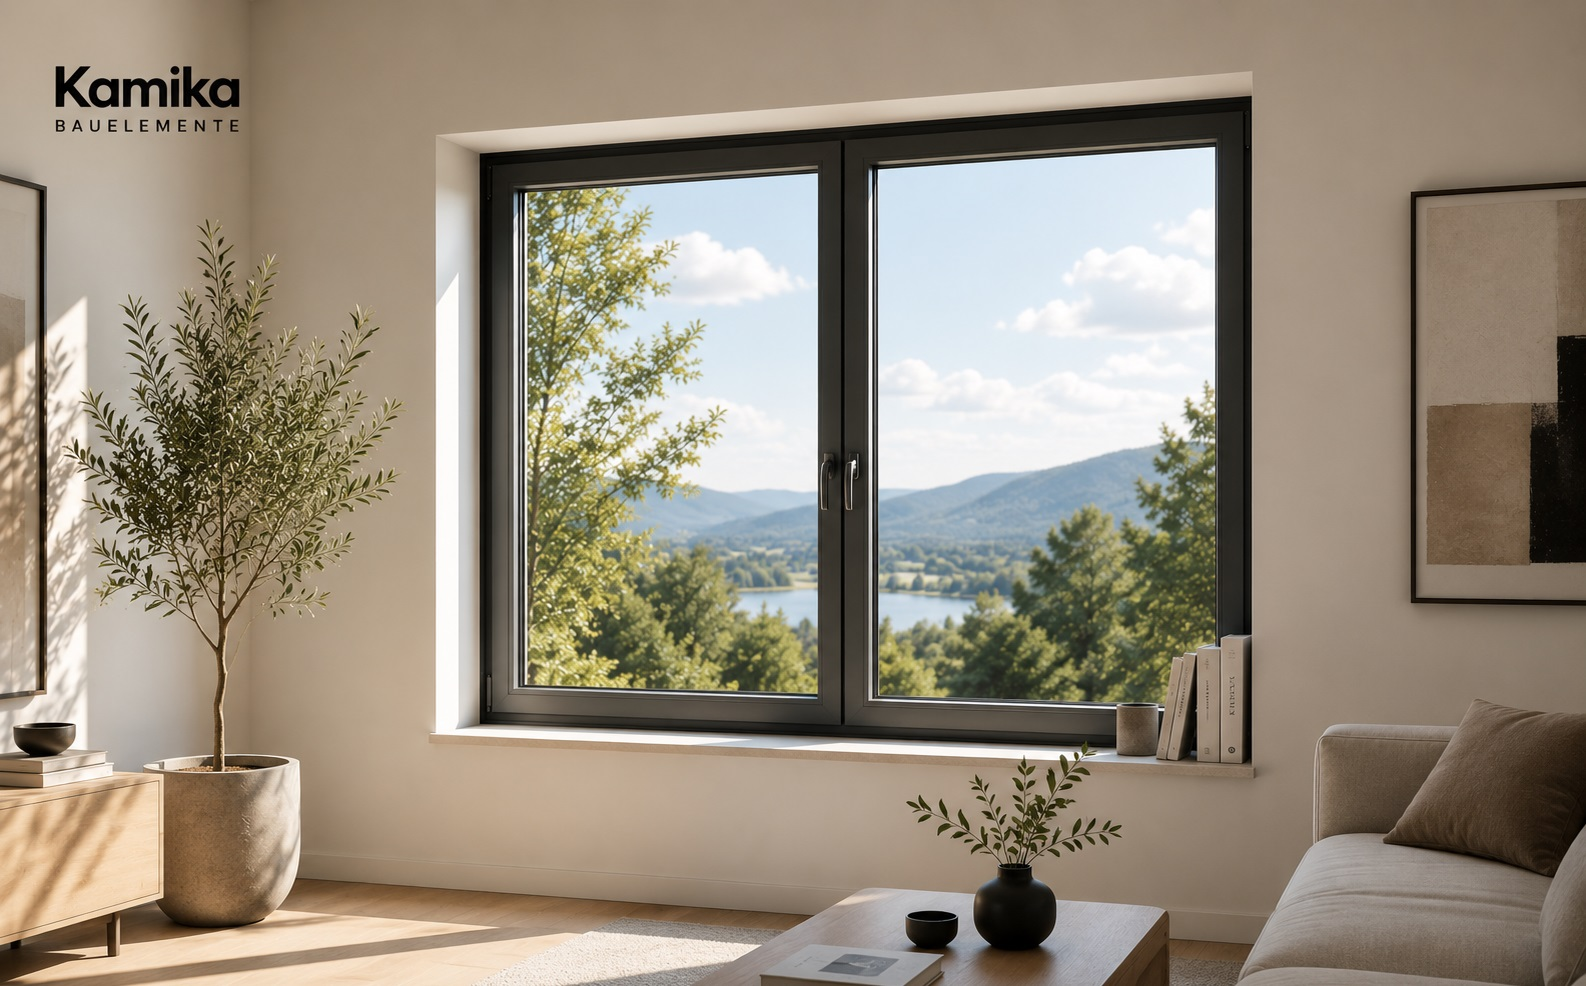
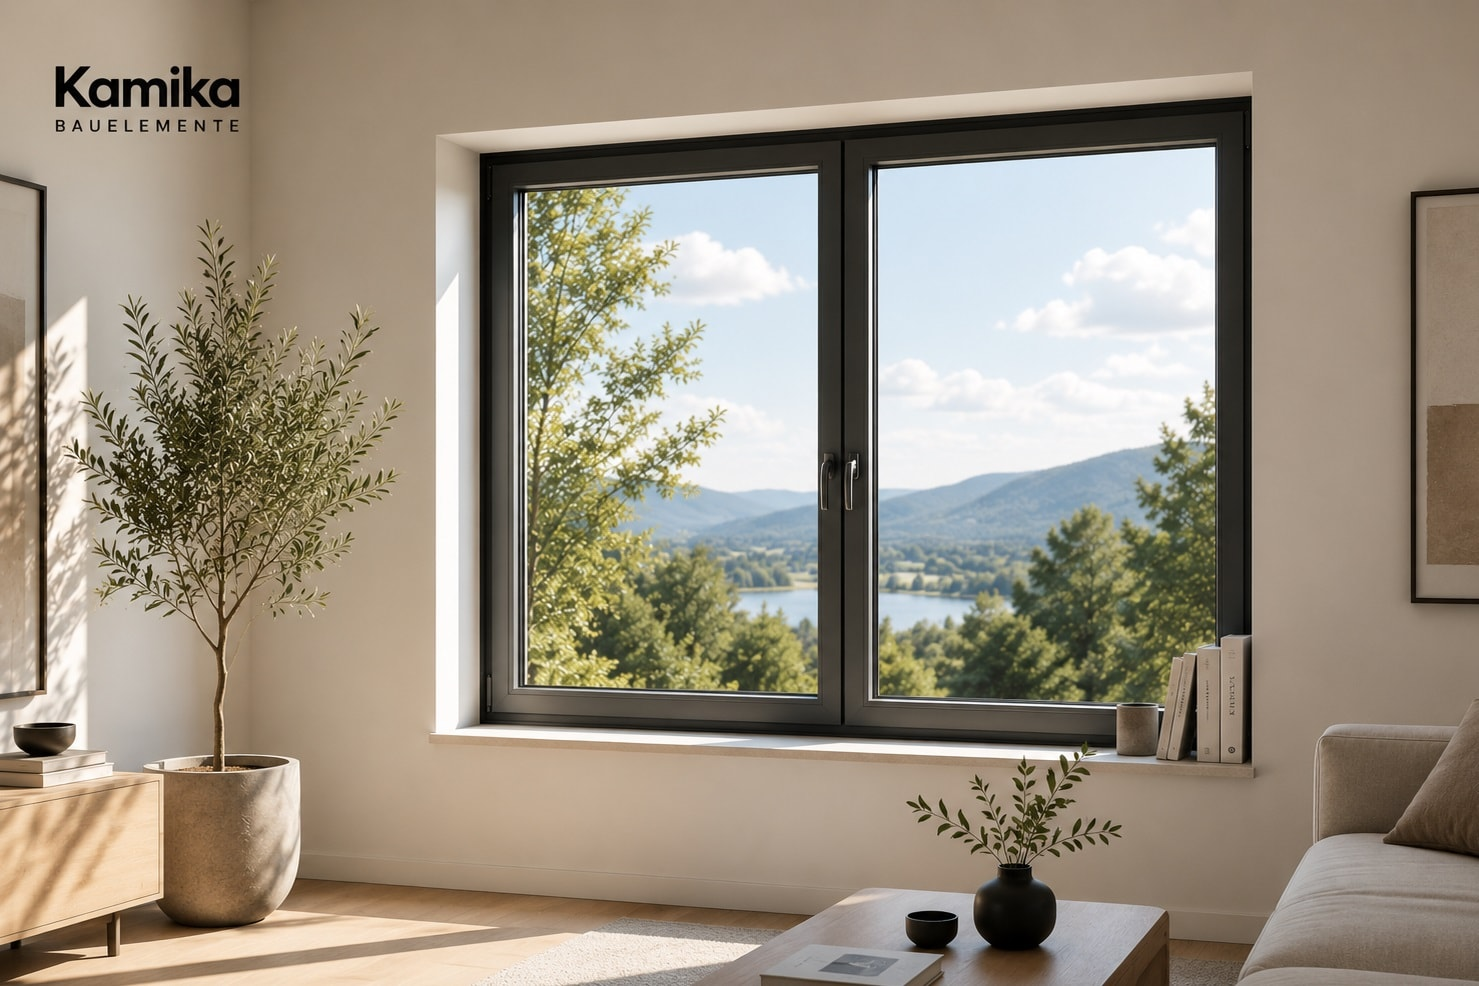
Windows: the owner's photograph, fitted to the frame
The photo came in at 1586×986 (16:10) and the range frames are 3:2, so
`object-cover` would have shaved 3,4% off each side — and the Kamika
wordmark burned into the photo starts at 3,3% from the left, so the
crop would have clipped the K. Cut to 1479×986 from the right instead:
exact 3:2, nothing cropped at any width, wordmark untouched, and the
composition loses only a sliver of the sofa.

The plate script now refuses to overwrite a range that has a real
photograph (`OWNER_PHOTOS`). Running it out of habit would otherwise
have destroyed this file without a word.

diff --git a/CONTENT.md b/CONTENT.md
@@ -25,7 +25,7 @@ npm run assets:placeholders
 | Status | Path                                             | What it must show                                                              | Who   |
 | ------ | ------------------------------------------------ | ------------------------------------------------------------------------------ | ----- |
 | `[~]`  | `public/images/home/hero.jpg`                    | One strong installation photo — a finished window or door in a real house. Landscape, 2400×1500 or larger. This is the first thing a visitor sees. | Owner |
-| `[~]`  | `public/images/categories/{slug}-hero.jpg`        | One photo per category (8 files). **`entrance-doors` is done**: it is composed from three real doors cut out of the catalogues. The other seven are brand plates — the window-frame motif in the logo colours with the range name — drawn by `node scripts/build-category-heroes.mjs`. They are deliberately graphics, not fake photography, and they can stay published until real photos arrive. 1600×1000. | Owner |
+| `[~]`  | `public/images/categories/{slug}-hero.jpg`        | One photo per category (8 files). **`entrance-doors` and `windows` are done** — the owner's own photographs. The other six are brand plates — the window-frame motif in the logo colours with the range name — drawn by `node scripts/build-category-heroes.mjs`, which now refuses to overwrite a range that has a real photo (`OWNER_PHOTOS`). They are deliberately graphics, not fake photography, and can stay published until real photos arrive. **3:2** (1500×1000 for the plates): the frame shows them whole, so anything narrower or wider gets cropped — and these photos carry the Kamika wordmark in the top-left corner, which is the first thing a crop eats. | Owner |
 | `[~]`  | `public/images/windows/{product-id}-{1,2,3}.jpg`  | Three photos per product: the element installed, a profile/section detail, and a wider shot. 1600×1200. | Owner |
 | `[~]`  | `public/images/about/dominik.jpg`                 | Portrait of Dominik for the About page. 1000×1250, plain background. **This one matters**: it is the only face on the site, and "about me" was one of the two things the owner asked for. | Owner |
 | `[~]`  | `public/images/catalogues/{id}-cover.jpg`         | Front cover of each catalogue — it is also the card the visitor clicks in the range. ROKA's two PDFs have real covers, rendered from page 1. The Despiro and panel PDFs are extracts with no cover, so theirs are composed by `node scripts/build-collection-covers.mjs` from two of their own models. If the supplier sends a complete PDF, render page 1 and drop the composed one. | You   |
